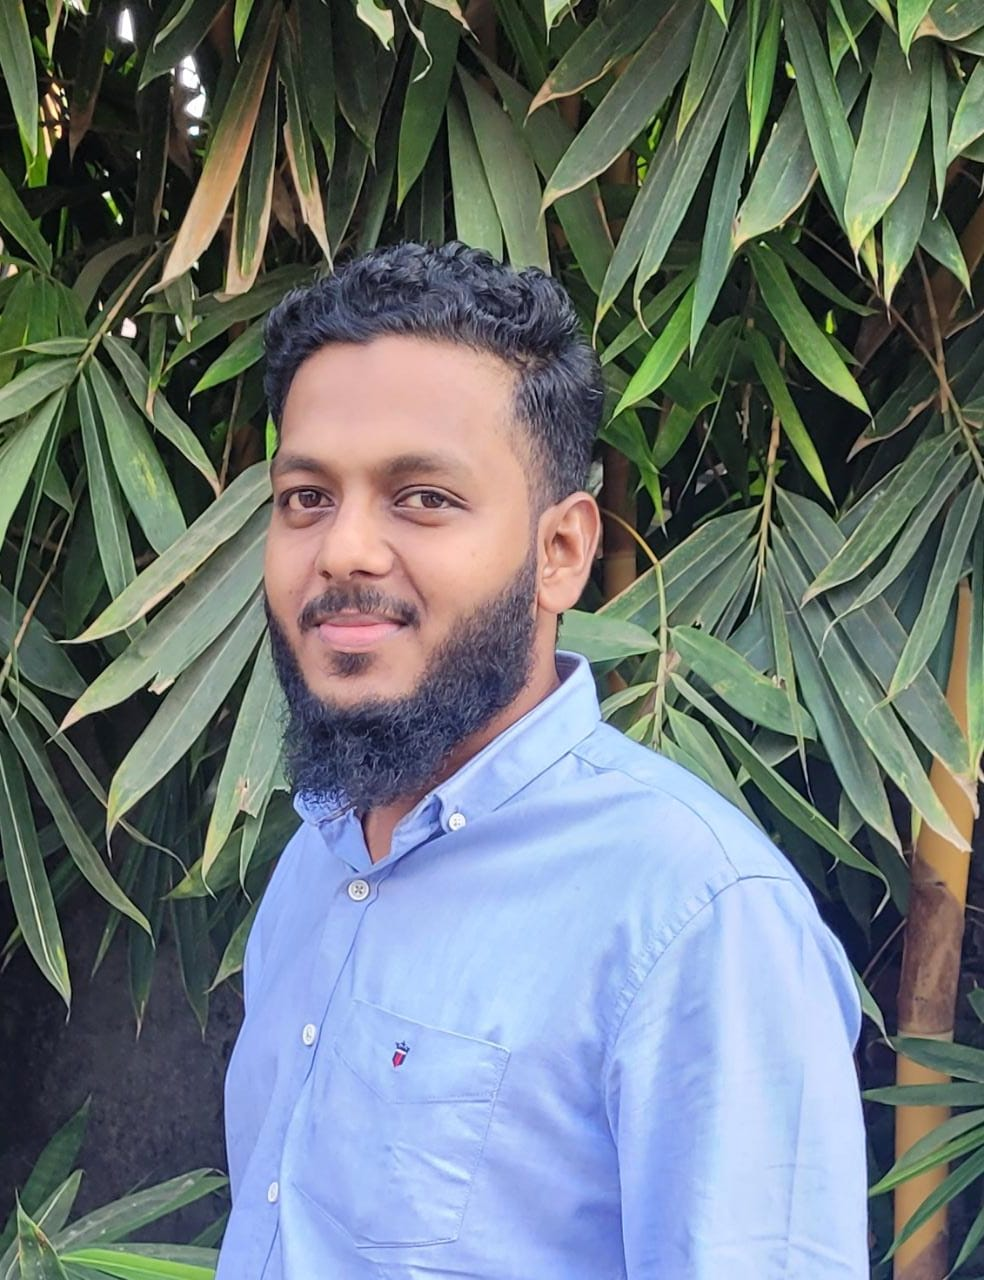
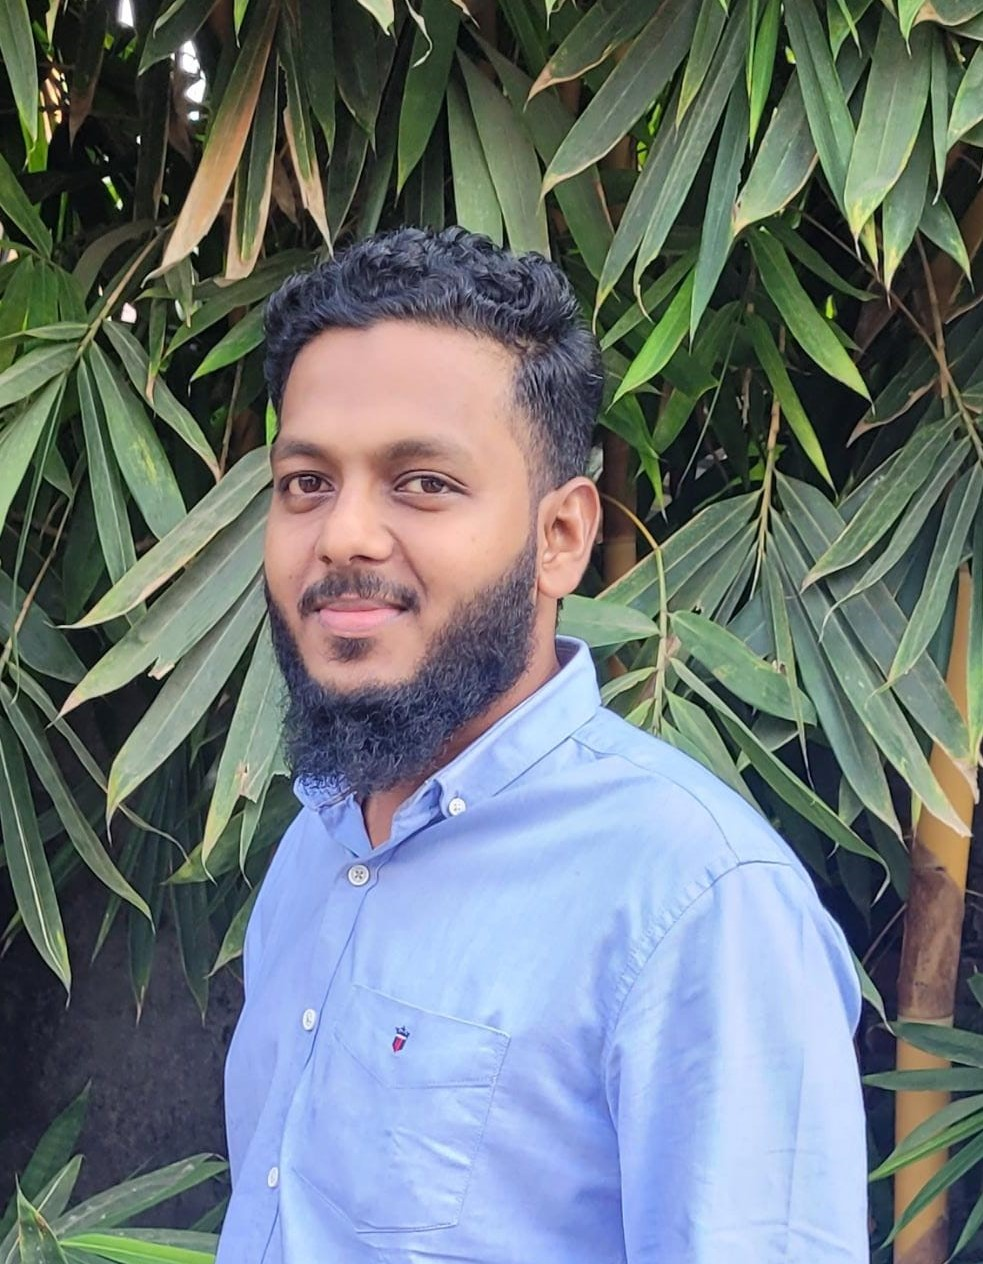
9th Commit

diff --git a/Career.html b/Career.html
@@ -14,9 +14,7 @@
     <!-- Google Web Fonts -->
     <link rel="preconnect" href="https://fonts.googleapis.com">
     <link rel="preconnect" href="https://fonts.gstatic.com" crossorigin>
-    <link
-        href="https://fonts.googleapis.com/css2?family=Jost:wght@500;600;700&family=Open+Sans:wght@400;500&display=swap"
-        rel="stylesheet">
+    <link href="https://fonts.googleapis.com/css2?family=Jost:wght@500;600;700&family=Open+Sans:wght@400;500&display=swap" rel="stylesheet">  
 
     <!-- Icon Font Stylesheet -->
     <link href="https://cdnjs.cloudflare.com/ajax/libs/font-awesome/5.10.0/css/all.min.css" rel="stylesheet">
@@ -36,8 +34,7 @@
 
 <body>
     <!-- Spinner Start -->
-    <div id="spinner"
-        class="show bg-white position-fixed translate-middle w-100 vh-100 top-50 start-50 d-flex align-items-center justify-content-center">
+    <div id="spinner" class="show bg-white position-fixed translate-middle w-100 vh-100 top-50 start-50 d-flex align-items-center justify-content-center">
         <div class="spinner-border text-primary" role="status" style="width: 3rem; height: 3rem;"></div>
     </div>
     <!-- Spinner End -->
@@ -84,7 +81,7 @@
 
 
     <!-- Page Header Start -->
-    <div class="container-fluid page-headerthree py-5 mb-5 wow fadeIn" data-wow-delay="0.1s">
+    <!-- <div class="container-fluid page-headerthree py-5 mb-5 wow fadeIn" data-wow-delay="0.1s">
         <div class="container text-center py-5">
             <h1 class="display-3 text-white mb-4 animated slideInDown">Projects</h1>
             <nav aria-label="breadcrumb animated slideInDown">
@@ -95,7 +92,7 @@
                 </ol>
             </nav>
         </div>
-    </div>
+    </div> -->
     <!-- Page Header End -->
 
 
@@ -103,114 +100,84 @@
     <div class="container-xxl py-5">
         <div class="container">
             <div class="text-center mx-auto wow fadeInUp" data-wow-delay="0.1s" style="max-width: 500px;">
-                <p class="fs-5 fw-bold text-primary">OUR PROJECTS</p>
-                <!-- <h1 class="display-5 mb-5">Some Of Our Wonderful Projects</h1> -->
+                <h1 class="fw-bold ">WE ARE HIRING</h1>
+              
             </div>
-            <div class="row wow fadeInUp" data-wow-delay="0.3s">
-                <div class="col-12 text-center">
-                    <!-- <ul class="list-inline rounded mb-5" id="portfolio-flters">
-                        <li class="mx-2 active" data-filter="*">All</li>
-                        <li class="mx-2" data-filter=".first">Complete Projects</li>
-                        <li class="mx-2" data-filter=".second">Ongoing Projects</li>
-                    </ul> -->
-
-                    <h1 class="fs-3">1.Hospital Buildings</h1>
-                    <h1 class="fs-3">2.Business Buildings</h1>
-                    <h1 class="fs-3">3.Convention Center </h1>
-                    <h1 class="fs-3">4.College and School..ect... </h1>
-                    <h1 class="fs-3"></h1>
-
-
-
-                </div>
-            </div>
-            <div>
-                <div class="container-fluid facts text-center align-items-center " data-parallax="scroll">
-                    <div class="container">
-                        <div class="text-center wow fadeIn" data-wow-delay="0.3s">
-                            <h1 class="display-4 text-white" data-toggle="counter-up">34</h1>
-                            <!-- <a class="fs-5 fw-semi-bold text-bold" >+ </a> -->
-                            <span class="fs-5 fw-semi-bold text-bold">+ Work Completed</span>
-                        </div>
-                        <!-- <h1 class="fs-3">34+ Completed Works</h1> -->
-                    </div>
-                </div>
-            </div>
-            <!-- <div class="row g-4 portfolio-container">
+            
+            <div class="row g-4 portfolio-container">
                 <div class="col-lg-4 col-md-6 portfolio-item first wow fadeInUp" data-wow-delay="0.1s">
                     <div class="portfolio-inner rounded">
-                        <img class="img-fluid" src="img/service-1.jpg" alt="">
-                        <div class="portfolio-text">
-                            <h4 class="text-white mb-4">Landscaping</h4>
-                            <div class="d-flex">
-                                <a class="btn btn-lg-square rounded-circle mx-2" href="img/service-1.jpg" data-lightbox="portfolio"><i class="fa fa-eye"></i></a>
-                                <a class="btn btn-lg-square rounded-circle mx-2" href=""><i class="fa fa-link"></i></a>
-                            </div>
-                        </div>
+                        <img class="img-fluid" src="img/g1.jpg" alt="">
+                       
                     </div>
                 </div>
                 <div class="col-lg-4 col-md-6 portfolio-item second wow fadeInUp" data-wow-delay="0.3s">
                     <div class="portfolio-inner rounded">
-                        <img class="img-fluid" src="img/service-2.jpg" alt="">
-                        <div class="portfolio-text">
-                            <h4 class="text-white mb-4">Pruning plants</h4>
-                            <div class="d-flex">
-                                <a class="btn btn-lg-square rounded-circle mx-2" href="img/service-2.jpg" data-lightbox="portfolio"><i class="fa fa-eye"></i></a>
-                                <a class="btn btn-lg-square rounded-circle mx-2" href=""><i class="fa fa-link"></i></a>
-                            </div>
-                        </div>
+                        <img class="img-fluid" src="img/g2.jpg" alt="">
+                       
                     </div>
                 </div>
                 <div class="col-lg-4 col-md-6 portfolio-item first wow fadeInUp" data-wow-delay="0.5s">
                     <div class="portfolio-inner rounded">
-                        <img class="img-fluid" src="img/service-3.jpg" alt="">
-                        <div class="portfolio-text">
-                            <h4 class="text-white mb-4">Irrigation & Drainage</h4>
-                            <div class="d-flex">
-                                <a class="btn btn-lg-square rounded-circle mx-2" href="img/service-3.jpg" data-lightbox="portfolio"><i class="fa fa-eye"></i></a>
-                                <a class="btn btn-lg-square rounded-circle mx-2" href=""><i class="fa fa-link"></i></a>
-                            </div>
-                        </div>
+                        <img class="img-fluid" src="img/g8.jpg" alt="">
+                       
                     </div>
                 </div>
                 <div class="col-lg-4 col-md-6 portfolio-item second wow fadeInUp" data-wow-delay="0.1s">
                     <div class="portfolio-inner rounded">
-                        <img class="img-fluid" src="img/service-4.jpg" alt="">
-                        <div class="portfolio-text">
-                            <h4 class="text-white mb-4">Garden Maintenance</h4>
-                            <div class="d-flex">
-                                <a class="btn btn-lg-square rounded-circle mx-2" href="img/service-4.jpg" data-lightbox="portfolio"><i class="fa fa-eye"></i></a>
-                                <a class="btn btn-lg-square rounded-circle mx-2" href=""><i class="fa fa-link"></i></a>
-                            </div>
-                        </div>
+                        <img class="img-fluid" src="img/g4.jpg" alt="">
+                       
                     </div>
                 </div>
                 <div class="col-lg-4 col-md-6 portfolio-item first wow fadeInUp" data-wow-delay="0.3s">
                     <div class="portfolio-inner rounded">
-                        <img class="img-fluid" src="img/service-5.jpg" alt="">
-                        <div class="portfolio-text">
-                            <h4 class="text-white mb-4">Green Technology</h4>
-                            <div class="d-flex">
-                                <a class="btn btn-lg-square rounded-circle mx-2" href="img/service-5.jpg" data-lightbox="portfolio"><i class="fa fa-eye"></i></a>
-                                <a class="btn btn-lg-square rounded-circle mx-2" href=""><i class="fa fa-link"></i></a>
-                            </div>
-                        </div>
+                        <img class="img-fluid" src="img/g5.jpg" alt="">
+                       
                     </div>
                 </div>
                 <div class="col-lg-4 col-md-6 portfolio-item second wow fadeInUp" data-wow-delay="0.5s">
                     <div class="portfolio-inner rounded">
-                        <img class="img-fluid" src="img/service-6.jpg" alt="">
-                        <div class="portfolio-text">
-                            <h4 class="text-white mb-4">Urban Gardening</h4>
-                            <div class="d-flex">
-                                <a class="btn btn-lg-square rounded-circle mx-2" href="img/service-6.jpg" data-lightbox="portfolio"><i class="fa fa-eye"></i></a>
-                                <a class="btn btn-lg-square rounded-circle mx-2" href=""><i class="fa fa-link"></i></a>
-                            </div>
-                        </div>
+                        <img class="img-fluid" src="img/g6.jpg" alt="">
+                        
                     </div>
                 </div>
-            
-            </div> -->
+                <div class="col-lg-4 col-md-6 portfolio-item first wow fadeInUp" data-wow-delay="0.1s">
+                    <div class="portfolio-inner rounded">
+                        <img class="img-fluid" src="img/g3.jpg" alt="">
+                       
+                    </div>
+                </div>
+                <div class="col-lg-4 col-md-6 portfolio-item second wow fadeInUp" data-wow-delay="0.3s">
+                    <div class="portfolio-inner rounded">
+                        <img class="img-fluid" src="img/g7.jpg" alt="">
+                       
+                    </div>
+                </div>
+                <div class="col-lg-4 col-md-6 portfolio-item first wow fadeInUp" data-wow-delay="0.5s">
+                    <div class="portfolio-inner rounded">
+                        <img class="img-fluid" src="img/g9.jpg" alt="">
+                       
+                    </div>
+                </div>
+                <div class="col-lg-4 col-md-6 portfolio-item second wow fadeInUp" data-wow-delay="0.1s">
+                    <div class="portfolio-inner rounded">
+                        <img class="img-fluid" src="img/g10.jpg" alt="">
+                       
+                    </div>
+                </div>
+                <div class="col-lg-4 col-md-6 portfolio-item first wow fadeInUp" data-wow-delay="0.3s">
+                    <div class="portfolio-inner rounded">
+                        <img class="img-fluid" src="img/g11.jpg" alt="">
+                       
+                    </div>
+                </div>
+                <div class="col-lg-4 col-md-6 portfolio-item second wow fadeInUp" data-wow-delay="0.5s">
+                    <div class="portfolio-inner rounded">
+                        <img class="img-fluid" src="img/g12.jpg" alt="">
+                        
+                    </div>
+                </div>
+            </div>
         </div>
     </div>
     <!-- Projects End -->
@@ -222,28 +189,16 @@
             <div class="row g-5">
                 <div class="col-lg-3 col-md-6">
                     <h4 class="text-white mb-4">Our Office</h4>
-                    <p class="mb-2"><i class="fa fa-map-marker-alt me-3"></i>1st Floor,Delight Building,market
-                        Road,Periyar nagar ,Aluva,Ernakulam-683101</p>
-                    <a href="tel://+918138802101">
-                        <p class="mb-2"><i class="fa fa-phone-alt me-3"></i>+91 8138802101</p>
-                    </a>
-                    <a href="mailto:flamestormekm@gmail.com">
-                        <p class="mb-2"><i class="fa fa-envelope me-3"></i>flamestormekm@gmail.com</p>
-                    </a>
+                    <p class="mb-2"><i class="fa fa-map-marker-alt me-3"></i>1st Floor,Delight Building,market Road,Periyar nagar ,Aluva,Ernakulam-683101</p>
+                   <a  href="tel://+918138802101"><p class="mb-2"><i class="fa fa-phone-alt me-3"></i>+91 8138802101</p></a> 
+                   <a href="mailto:flamestormekm@gmail.com"><p class="mb-2"><i class="fa fa-envelope me-3"></i>flamestormekm@gmail.com</p></a>
                     <div class="d-flex pt-2">
-                        <a class="btn btn-square btn-outline-light rounded-circle me-2"
-                            href="https://twitter.com/Flamestormekm?t=NXss3u4Wm3Kp-tU9AMLktQ&s=08"><i
-                                class="fab fa-twitter"></i></a>
-                        <a class="btn btn-square btn-outline-light rounded-circle me-2"
-                            href="https://instagram.com/flamestormllp?igshid=YmMyMTA2M2Y="><i
-                                class="fab fa-instagram"></i></a>
-                        <a class="btn btn-square btn-outline-light rounded-circle me-2"
-                            href="https://www.youtube.com/@Flamestorm-dt2nu"><i class="fab fa-youtube"></i></a>
-                        <a class="btn btn-square btn-outline-light rounded-circle me-2" href=""><i
-                                class="fab fa-facebook-f"></i></a>
-                        <a class="btn btn-square btn-outline-light rounded-circle me-2"
-                            href="https://wa.me/+918138842101"><i class="fab fa-whatsapp"></i></a>
-
+                        <a class="btn btn-square btn-outline-light rounded-circle me-2" href="https://twitter.com/Flamestormekm?t=NXss3u4Wm3Kp-tU9AMLktQ&s=08"><i class="fab fa-twitter"></i></a>
+                        <a class="btn btn-square btn-outline-light rounded-circle me-2" href="https://instagram.com/flamestormllp?igshid=YmMyMTA2M2Y="><i class="fab fa-instagram"></i></a>
+                        <a class="btn btn-square btn-outline-light rounded-circle me-2" href="https://www.youtube.com/@Flamestorm-dt2nu"><i class="fab fa-youtube"></i></a>
+                        <a class="btn btn-square btn-outline-light rounded-circle me-2" href=""><i class="fab fa-facebook-f"></i></a>
+                        <a class="btn btn-square btn-outline-light rounded-circle me-2" href="https://wa.me/+918138842101"><i class="fab fa-whatsapp"></i></a>
+                        
 
                     </div>
                 </div>
@@ -259,12 +214,12 @@
                             <a href="" class="dropdown-item">Biomedical</a>
                             <a href="" class="dropdown-item">STP</a>
                             <a href="" class="dropdown-item">National Accreditation Paper Work</a>
-
+                           
                         </div>
                     </div>
 
 
-
+                   
                 </div>
                 <div class="col-lg-3 col-md-6">
                     <h4 class="text-white mb-4">Quick Links</h4>
@@ -273,16 +228,14 @@
                     <a class="btn btn-link" href="service.html">Our Services</a>
                     <a class="btn btn-link" href="">Certification</a>
                     <a class="btn btn-link" href="Gallery.html">News and Events</a>
-                    <a class="btn btn-link" href="">Career</a>
+                     <a class="btn btn-link" href="">Career</a>
                 </div>
                 <div class="col-lg-3 col-md-6">
                     <h4 class="text-white mb-4">Get a Quote</h4>
-
+                    
                     <div class="position-relative w-100">
-                        <input class="form-control bg-light border-light w-100 py-3 ps-4 pe-5" type="text"
-                            placeholder="Your email">
-                        <button type="button"
-                            class="btn btn-primary py-2 position-absolute top-0 end-0 mt-2 me-2">SignUp</button>
+                        <input class="form-control bg-light border-light w-100 py-3 ps-4 pe-5" type="text" placeholder="Your email">
+                        <button type="button" class="btn btn-primary py-2 position-absolute top-0 end-0 mt-2 me-2">SignUp</button>
                     </div>
                 </div>
             </div>
@@ -309,9 +262,8 @@
 
 
     <!-- Back to Top -->
-    <a href="#" class="btn btn-lg btn-primary btn-lg-square rounded-circle back-to-top"><i
-            class="bi bi-arrow-up"></i></a>
-
+    <a href="#" class="btn btn-lg btn-primary btn-lg-square rounded-circle back-to-top"><i class="bi bi-arrow-up"></i></a>
+    
 
     <!-- JavaScript Libraries -->
     <script src="https://code.jquery.com/jquery-3.4.1.min.js"></script>

diff --git a/about.html b/about.html
@@ -107,7 +107,7 @@
                     <h1 class="display-1 text-primary mb-0">7</h1>
                     <p class="text-primary mb-4">Year of Experience</p>
                     <h1 class="display-5 mb-4"> fire protection and fire prevention company</h1>
-                    <p class="mb-4">Formed in 2016, FlameStorm is a company of young engineers who have made their mark in this field for more than ten years with the concern of safety and protection from the increasing incidence of fire in our country. 
+                    <p class="mb-4">Formed in 2016, FlameStorm is a company of young engineers who have made their mark in this field for more than 10 years with the concern of safety and protection from the increasing incidence of fire in our country. 
                         Professionalized design and engineering are our specialties to provide qualitatively superior, functionally superior and highly reliable fire protection systems catering to diverse segments of the modern technology market.
                          
                         <p>We take great care to make the most efficient systems while addressing the needs of the customer by studying the evolving technology in detail.</p></p>
@@ -173,7 +173,7 @@
             <div class="row g-4">
                 <div class="col-lg-4 col-md-6 wow fadeInUp" data-wow-delay="0.1s">
                     <div class="team-item rounded">
-                        <img class="img-fluid" src="img/akbarsha1.PNG" alt="">
+                        <img class="img-fluid" src="img/akbar3.png" alt="">
                         <div class="team-text">
                             <h4 class="mb-0">Akbarshan Ahammed Koya</h4>
                             <p class="text-primary">Chairman</p>

diff --git a/index.html b/index.html
@@ -695,7 +695,7 @@
                     <a class="btn btn-link" href="service.html">Our Services</a>
                     <a class="btn btn-link" href="">Certification</a>
                     <a class="btn btn-link" href="Gallery.html">News and Events</a>
-                     <a class="btn btn-link" href="">Career</a>
+                     <a class="btn btn-link" href="Career.html">Career</a>
                 </div>
                 <div class="col-lg-3 col-md-6">
                     <h4 class="text-white mb-4">Get a Quote</h4>
